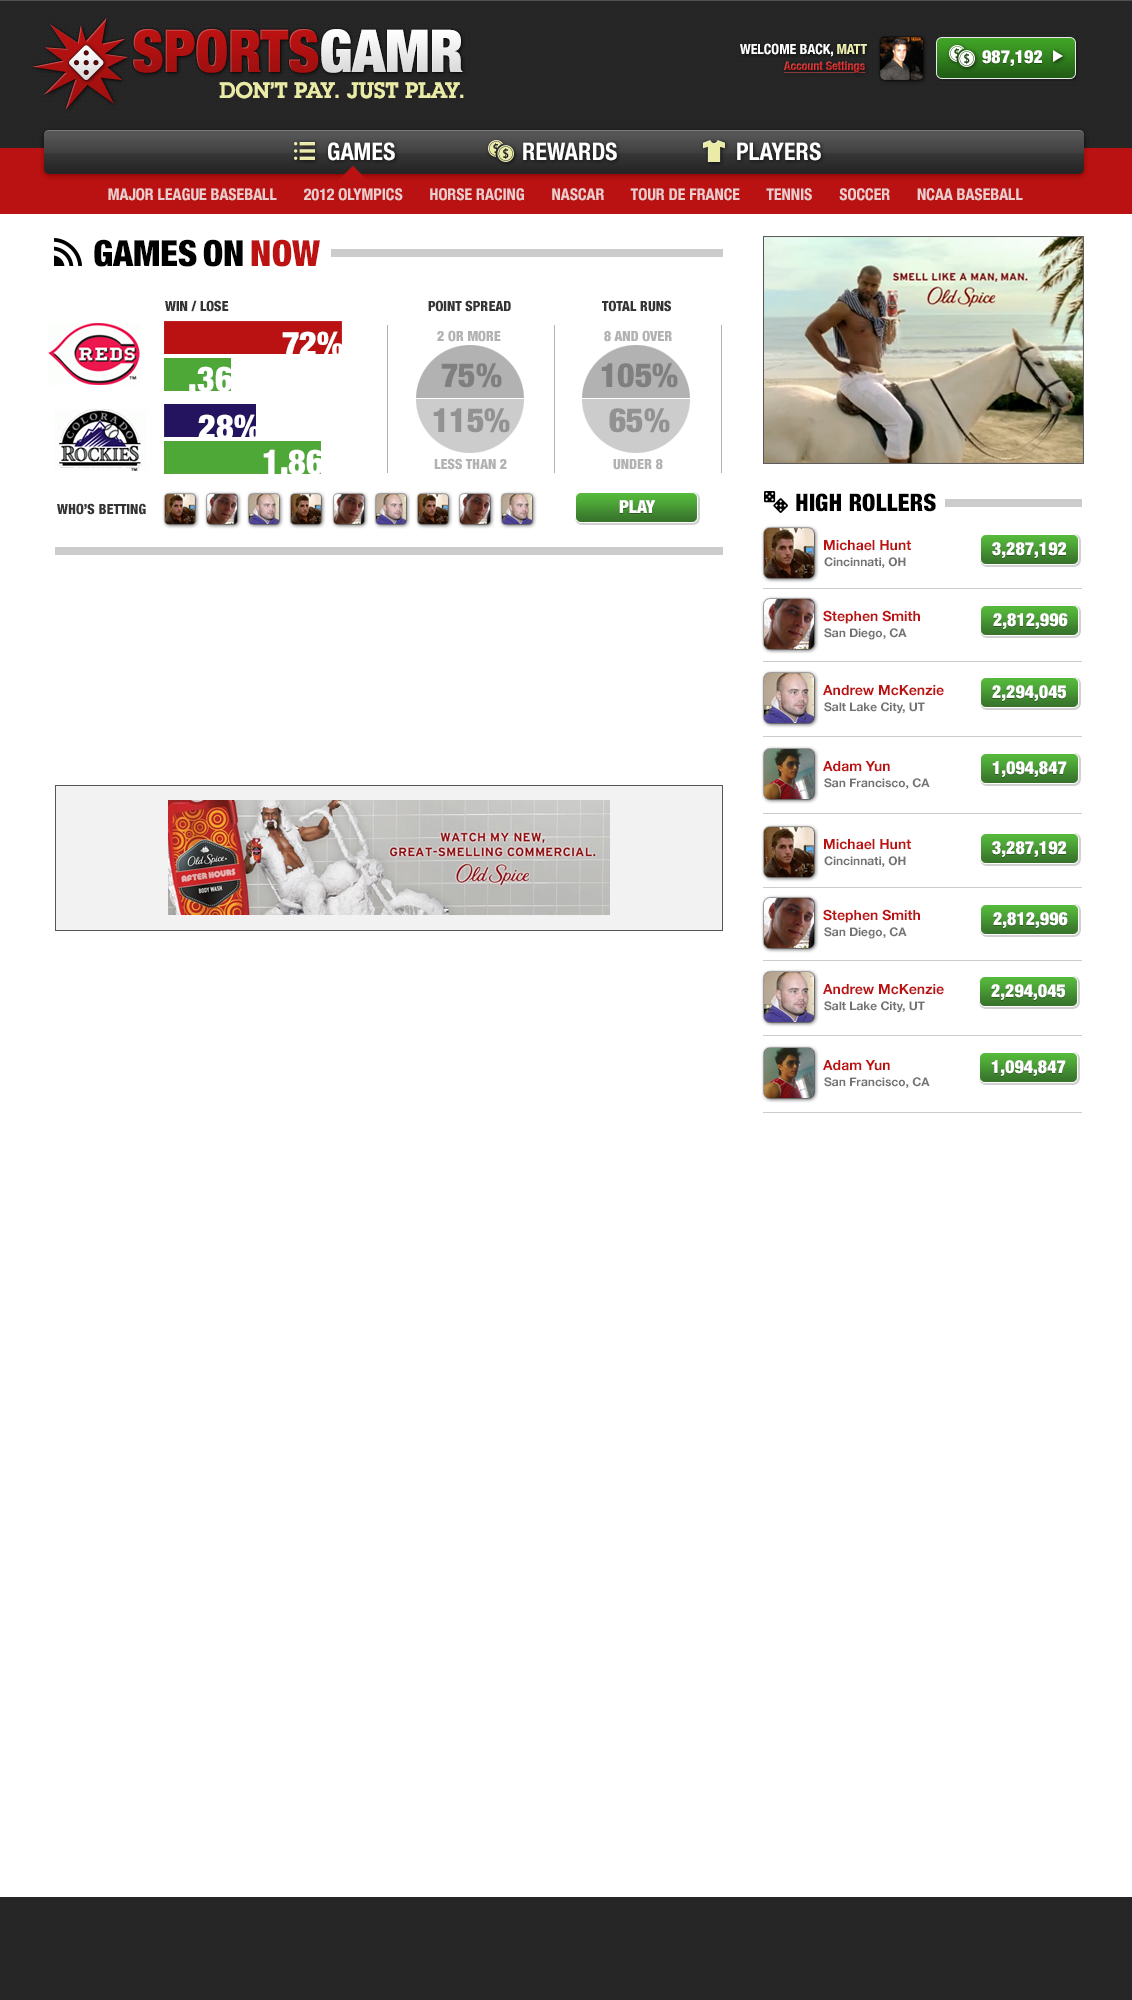
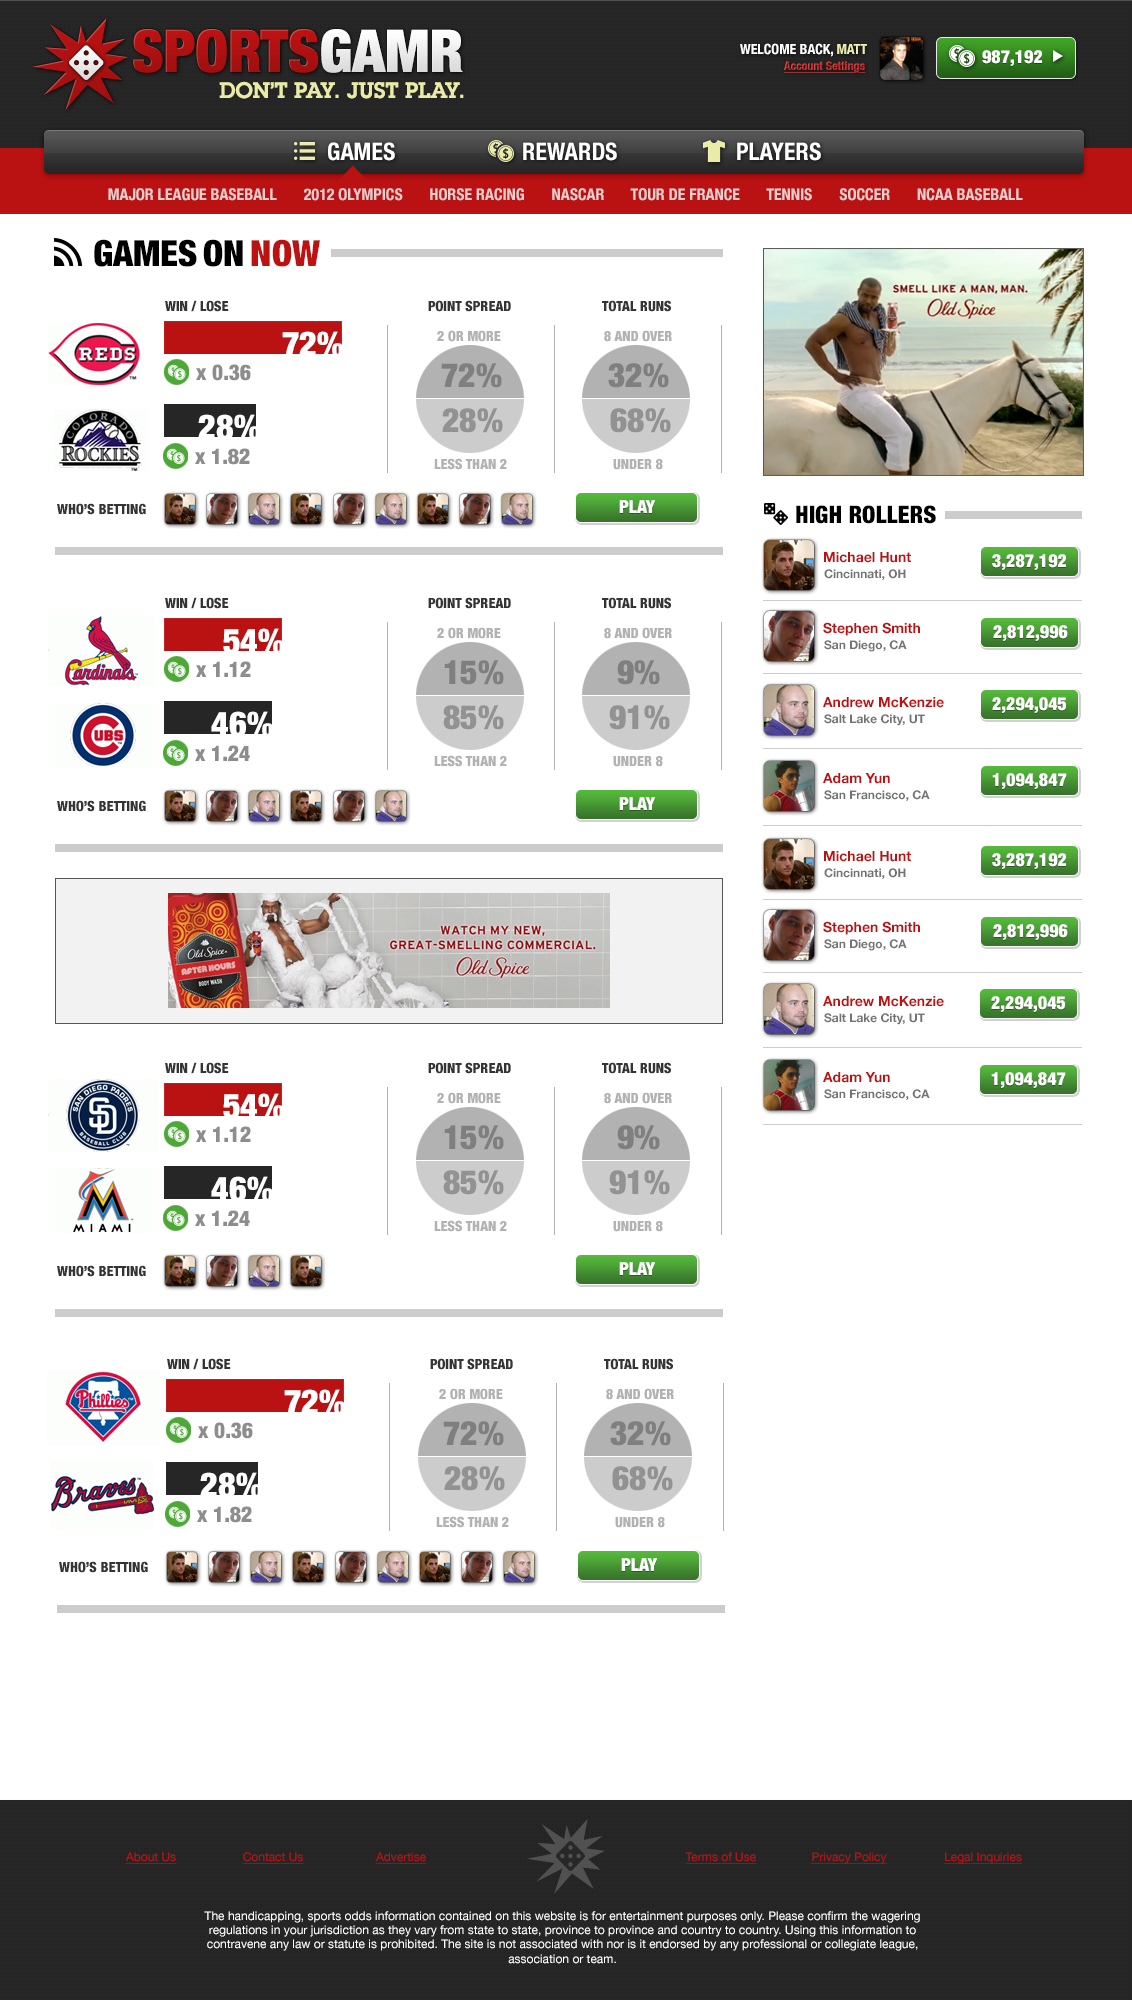
updating to "earn more credits" and the bet returns to the home page

diff --git a/app/assets/javascripts/game_detail.js b/app/assets/javascripts/game_detail.js
@@ -220,9 +220,7 @@ $(document).ready(function(){
     }
 
     $("#Place_Bet").mousedown(function(){
-        $("#Winner_Bet").prop('disabled', true);
-        $("#Run_Bet").prop('disabled', true);
-        $("#Total_Run_Bet").prop('disabled', true);
         alert("Your bet has been placed.");
+        window.location.href = "home.html";
     });
 });

diff --git a/app/assets/stylesheets/earn_credit.css b/app/assets/stylesheets/earn_credit.css
@@ -1,0 +1,15 @@
+html,body{
+    height: 100%;
+}
+body{
+    padding: 0px;
+    margin: 0px;
+}
+div.container{
+    width: 1132px;
+    height: 2000px;
+    background-image: url("/assets/earn_credit.png");
+    background-repeat: no-repeat;
+    margin: 0px auto;
+    position: relative;
+}

diff --git a/public/earn_credit.html b/public/earn_credit.html
@@ -1,0 +1,12 @@
+<!DOCTYPE HTML>
+<html>
+<head>
+    <link rel="stylesheet" type="text/css" href="/assets/earn_credit.css" />
+    <script type="text/javascript" src="/assets/jquery-1.7.2.js"></script>
+</head>
+<body>
+<div class="container">
+
+</div>
+</body>
+</html>

diff --git a/app/assets/stylesheets/home.css b/app/assets/stylesheets/home.css
@@ -20,3 +20,9 @@ div.container{
     width: 136px;
     height: 42px;
 }
+#Earn_Credit{
+    position: absolute;
+    left: 941px;
+    top: 83px;
+    width: 150px;
+}
